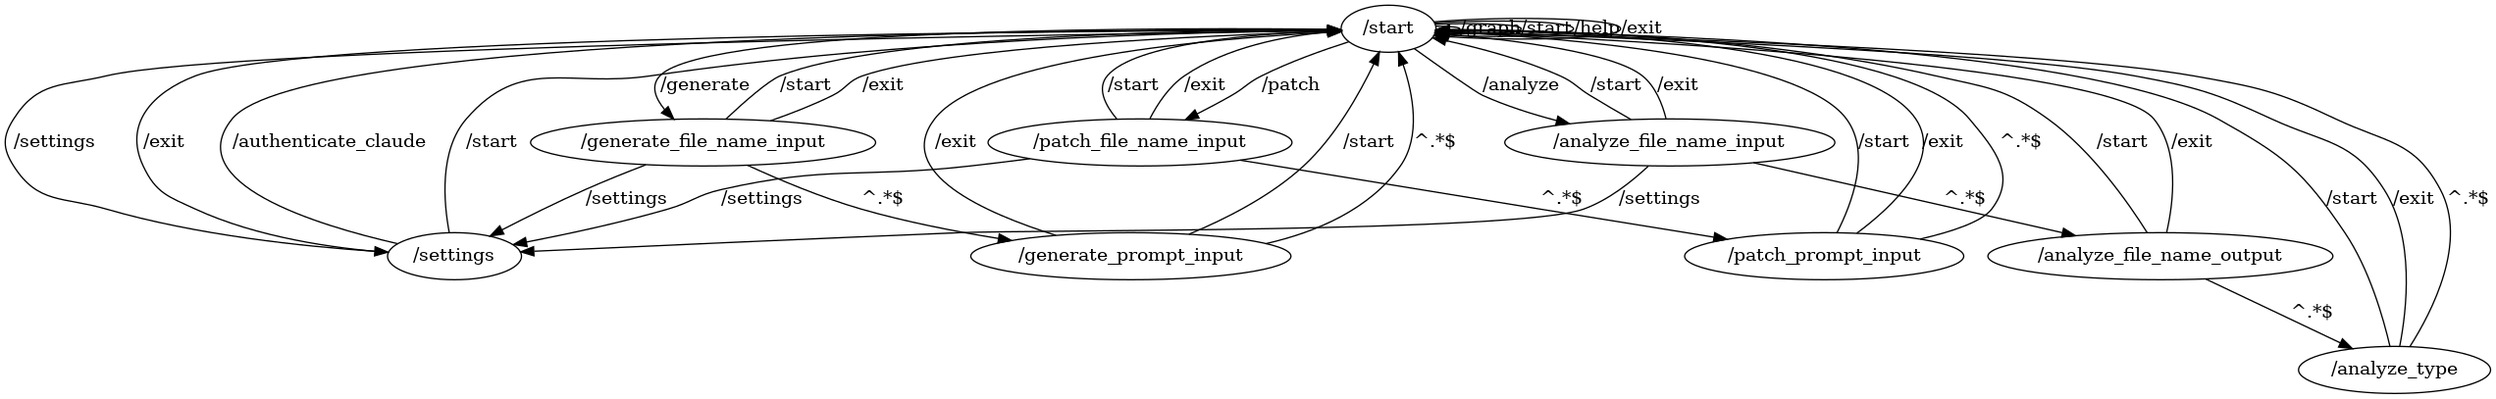
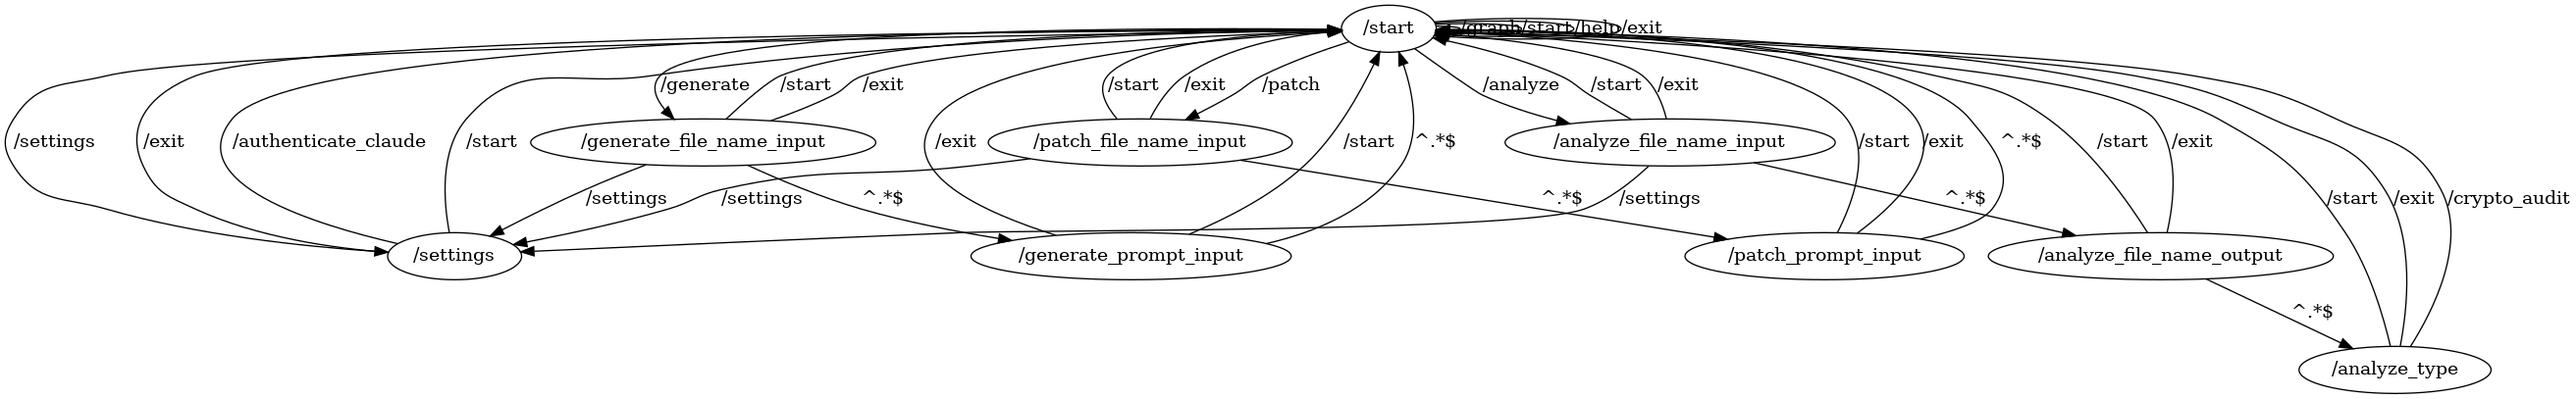
- generating TODO comments, which criticize your code.

diff --git a/flows/morph.py b/flows/morph.py
@@ -211,14 +211,15 @@ Therefore, we are using the Web API for accessing Claude:
 
         return transition
 
-    @staticmethod
-    def build_patch_file_name_input_transition():
+    def build_patch_file_name_input_transition(self):
 
         async def transition(action):
+
             file_name = action['text']
             action["context"].add("patch_file_name", file_name)
             text = f"mrph> Loaded \"{file_name}\". How to augment that?"
-            await action["context"].bot.send_message(chat_id=action["update"]["effective_chat"]["id"], text=text)
+
+            await self.build_menu_response_transition(text, ['/todo (criticize and add comments)', '*'])(action)
 
         return transition
 
@@ -369,6 +370,50 @@ Therefore, we are using the Web API for accessing Claude:
         return transition
 
     @staticmethod
+    def build_todo_transition(nested_transition):
+        async def transition(action):
+
+            file_name = action['context'].get("patch_file_name")
+
+            try:
+                # Load file contents
+                with open(file_name, 'r', encoding='utf-8') as file:
+                    file_contents = file.read()
+
+                messages = [{
+                    "role": "system",
+                    "content": f"Let's update the {file_name} file provided."
+                }, {
+                    "role": "assistant",
+                    "content": f"Original file:\n\n---\n{file_contents}\n---\n"
+                }, {
+                    "role": "user",
+                    "content": "Please, criticize this file contents and add \"TODO:\" comments, saying, what can be "
+                               "improved."
+                }]
+
+                # Augment the file contents based on the user's prompt
+                response = MorphBot.augment_chat(messages)
+                print(f"llm> {response}")
+
+                # Parse code blocks
+                code_blocks = re.findall(r"```(.*?)\n(.*?)\n```", response, re.DOTALL)
+
+                # Save code blocks to a text file
+                for language, code_block in code_blocks:
+                    with open(file_name, 'w', encoding='utf-8') as file:
+                        file.write(f"{code_block}\n")
+
+                text = f"mrph> The file \"{file_name}\" has been criticized. Please, review \"TODO:\" comments."
+                await action["context"].bot.send_message(chat_id=action["update"]["effective_chat"]["id"], text=text)
+                await nested_transition(action)
+            except Exception as e:
+                text = f"mrph> An error occurred while processing the file: {str(e)}"
+                await action["context"].bot.send_message(chat_id=action["update"]["effective_chat"]["id"], text=text)
+
+        return transition
+
+    @staticmethod
     def build_exit_transition():
 
         async def transition(_):
@@ -435,6 +480,11 @@ Type "/help" for more.\n''',
                 on_transition=self.build_patch_file_name_input_transition()) \
             .edge("/patch_prompt_input", "/start", "/start") \
             .edge("/patch_prompt_input", "/start", "/exit", on_transition=self.build_exit_transition()) \
+            .edge(
+                "/patch_prompt_input",
+                "/start",
+                "/todo",
+                on_transition=self.build_todo_transition(main_menu_transition)) \
             .edge(
                 "/patch_prompt_input",
                 "/start",

diff --git a/setup.py b/setup.py
@@ -2,7 +2,7 @@ from setuptools import setup
 
 setup(
     name="mrph",
-    version="1.0.14",
+    version="1.0.15",
     scripts=["bin/mrph"],
     py_modules=["flows.morph", "settings"],
     install_requires=['openai', 'python-dotenv',
